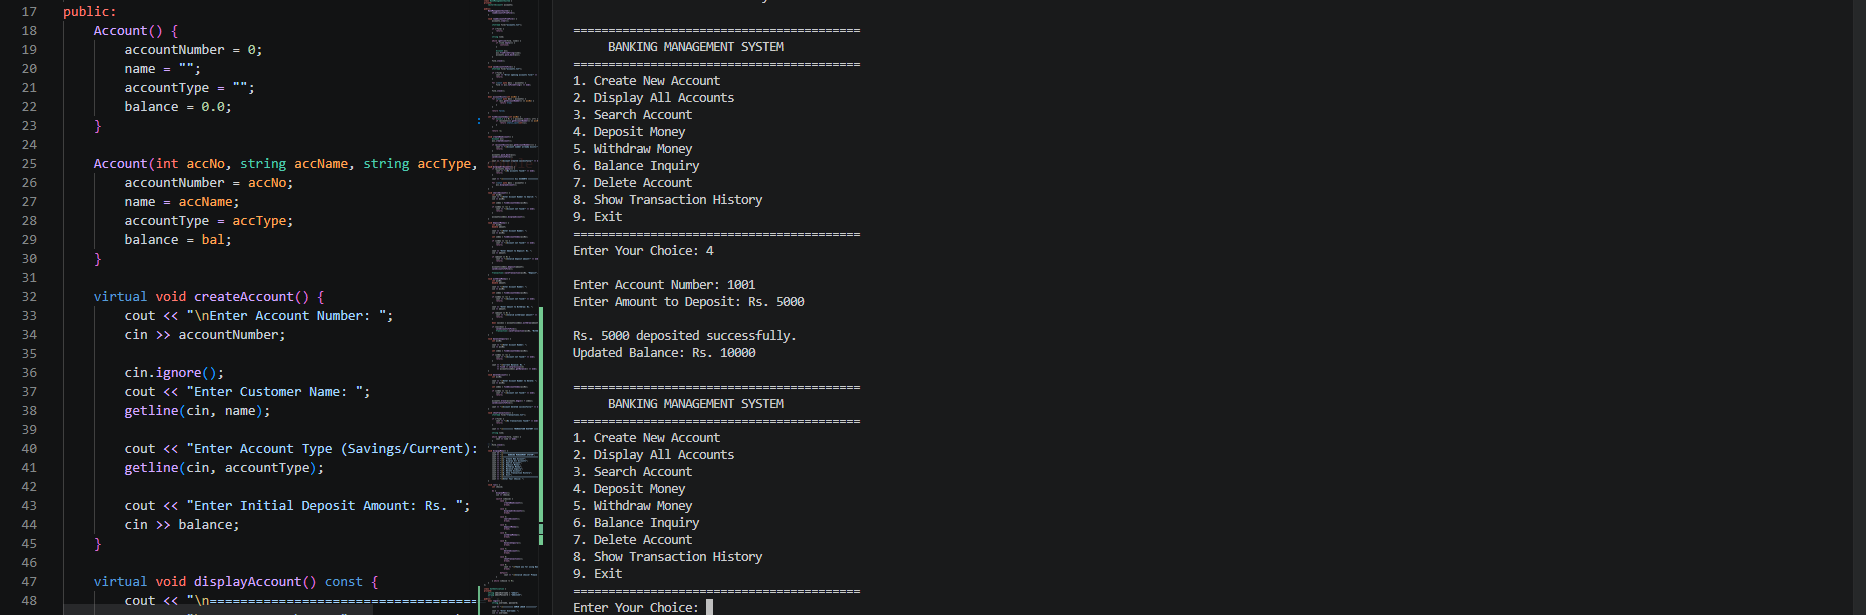
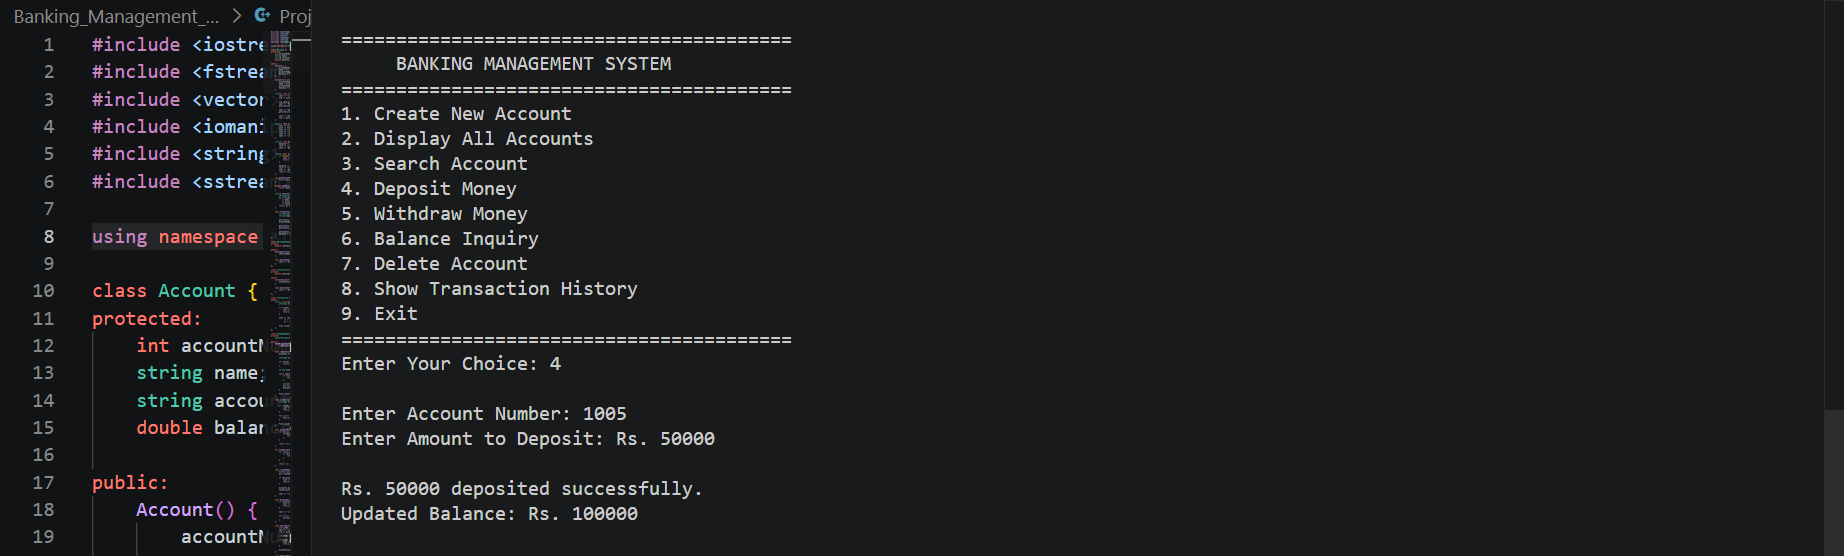
Added project screenshots

Changed region(s): [[0.0, 0.0, 0.4637, 1.0]]

diff --git a/README.md b/README.md
@@ -22,14 +22,22 @@ A console-based Banking Management System developed using C++, Object-Oriented P
 ## Screenshots
 
 ### Main Menu
-![Main Menu](Screenshots/Main_Menu.png)
+![Main Menu](screenshots/menu.png)
+
+### Account Creation
+![Account Creation](screenshots/create-account.png)
 
 ### Deposit Money
-![Deposit](Screenshots/Deposit.png)
+![Deposit](screenshots/deposit.png)
+
+### Withdrawal
+![Withdrawal](screenshots/withdraw.png)
 
 ### Balance Inquiry
-![Balance](Screenshots/Account_Balance.png)
+![Balance](screenshots/balance.png)
 
+### Transaction History
+![Transactions](screenshots/transactions.png)
 ## How to Run
 
 ```bash
